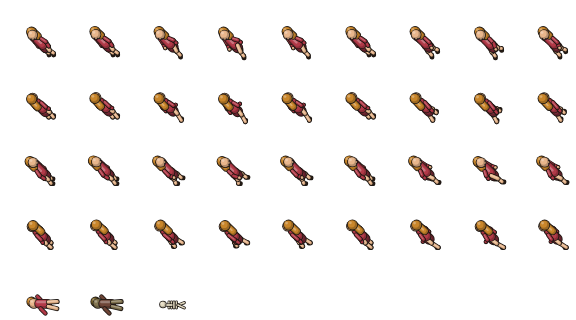
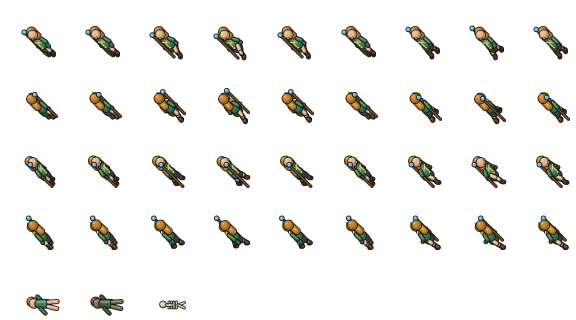
Sprites por código: mais detalhes no humano (ombreiras, braçadeiras, luvas, botas, cinto, frisos, cabelo espetado, espada, cajado) e traço mais limpo
Claude-Session: https://claude.ai/code/session_013J7ZHEiCUmkwR4oHDgpwZX

diff --git a/ferramentas/desenho/modelos.js b/ferramentas/desenho/modelos.js
@@ -8,6 +8,7 @@
 
 const CAMERA = 0.74;
 const CONTORNO = '#1c1612';
+const NITIDEZ = 4;
 const DIRECOES = { sul: [0, 1], norte: [0, -1], leste: [1, 0], oeste: [-1, 0] };
 
 // ================================================================================================================================================================================================================================================
@@ -68,7 +69,9 @@ function eixos(direcao) {
 
 // ================================================================================================================================================================================================================================================
 // humano
-// Partes do humano na direção e fase. visual: { pele, cabelo, camisa, calca, sapato, feminino }.
+// Partes do humano na direção e fase. visual: { pele, cabelo, camisa, calca, sapato, feminino } e os detalhes opcionais
+// cinto, detalhe (fivela, friso do peito, gola), luva, bracadeira, ombreira, bota (cano alto), espetado (cabelo em
+// pontas), espada (nas costas) e cajado (na mão direita).
 
 function humano(direcao, fase, visual) {
   const p = eixos(direcao);
@@ -76,14 +79,22 @@ function humano(direcao, fase, visual) {
   const s = fase ? Math.sin(t) : 0;
   const sobe = fase ? Math.abs(Math.cos(t)) * 0.9 : 0;
   const partes = [];
+  const meio = (a, b, f) => [0, 1, 2].map(i => a[i] + (b[i] - a[i]) * f);
   const perna = (lado, fase01) => {
     const ergue = Math.max(0, fase01) * 2.2;
     const quadril = p(0, lado * 2.3, 11.5 + sobe);
     const pe = p(fase01 * 4.6, lado * 2.3, 1.2 + ergue);
     const joelho = p(fase01 * 2.6 + 1.1, lado * 2.3, 6.4 + ergue * 0.6 + sobe);
     const cor = visual.feminino ? visual.pele : visual.calca;
-    partes.push({ a: quadril, b: joelho, largura: 3.6, cor }, { a: joelho, b: pe, largura: 3.1, cor });
-    partes.push({ a: pe, b: p(fase01 * 4.6 + 1.6, lado * 2.3, 0.9 + ergue), largura: 3.3, cor: visual.sapato, luz: false });
+    partes.push({ a: quadril, b: joelho, largura: 3.6, cor });
+    if (visual.bota) {
+      const cano = meio(joelho, pe, 0.3);
+      partes.push({ a: joelho, b: cano, largura: 3.1, cor }, { a: cano, b: pe, largura: 3.4, cor: visual.bota });
+      partes.push({ a: cano, largura: 3.9, cor: misturar(visual.bota, '#ffffff', 0.18), luz: false });
+    } else {
+      partes.push({ a: joelho, b: pe, largura: 3.1, cor });
+    }
+    partes.push({ a: pe, b: p(fase01 * 4.6 + 1.6, lado * 2.3, 0.9 + ergue), largura: 3.3, cor: visual.bota || visual.sapato, luz: false });
   };
   perna(-1, s);
   perna(1, -s);
@@ -91,19 +102,49 @@ function humano(direcao, fase, visual) {
     const ombro = p(0, lado * 4.6, 20.4 + sobe);
     const cotovelo = p(fase01 * 1.6 - 0.6, lado * 5.4, 15.6 + sobe);
     const mao = p(fase01 * 4 + 0.8, lado * 5.2, 11.4 + sobe + Math.max(0, fase01) * 1.2);
-    partes.push({ a: ombro, b: cotovelo, largura: 3.1, cor: visual.camisa }, { a: cotovelo, b: mao, largura: 2.7, cor: visual.camisa });
-    partes.push({ a: mao, largura: 2.7, cor: visual.pele, luz: false });
+    partes.push({ a: ombro, b: cotovelo, largura: 3.1, cor: visual.camisa });
+    partes.push({ a: cotovelo, b: mao, largura: visual.bracadeira ? 3.1 : 2.7, cor: visual.bracadeira || visual.camisa });
+    partes.push({ a: mao, largura: visual.luva ? 3.1 : 2.7, cor: visual.luva || visual.pele, luz: false });
+    if (visual.ombreira) {
+      partes.push({ a: p(0, lado * 5, 21.2 + sobe), largura: 5.4, cor: visual.ombreira, frente: 1 });
+      partes.push({ a: p(0, lado * 6.4, 20.2 + sobe), largura: 3.2, cor: misturar(visual.ombreira, '#000000', 0.15), frente: 1 });
+    }
+    if (visual.cajado && lado > 0) {
+      partes.push({ a: [mao[0], mao[1], 1], b: [mao[0], mao[1], 29], largura: 1.6, cor: '#7a5230', luz: false });
+      partes.push({ a: [mao[0], mao[1], 30.4], largura: 4, cor: visual.cajado });
+    }
   };
   braco(-1, -s);
   braco(1, s);
   partes.push({ a: p(0, 0, 12.5 + sobe), b: p(0, 0, 20 + sobe), largura: 8.4, cor: visual.camisa });
   if (visual.feminino) partes.push({ a: p(0, 0, 8.6 + sobe), b: p(0, 0, 12.4 + sobe), largura: 9.4, cor: visual.calca });
   else partes.push({ a: p(0, -2.2, 11.6 + sobe), b: p(0, 2.2, 11.6 + sobe), largura: 4.4, cor: visual.calca });
+  if (visual.cinto) {
+    partes.push({ a: p(0, -3.3, 12.8 + sobe), b: p(0, 3.3, 12.8 + sobe), largura: 3.2, cor: visual.cinto, luz: false, frente: 1 });
+    if (visual.detalhe) partes.push({ a: p(3.6, 0, 12.8 + sobe), largura: 2, cor: visual.detalhe, contorno: false, frente: 3 });
+  }
+  if (visual.detalhe) {
+    partes.push({ a: p(3.9, 0, 15 + sobe), b: p(3.9, 0, 19 + sobe), largura: 1.3, cor: visual.detalhe, contorno: false, luz: false, frente: 3 });
+    partes.push({ a: p(3.4, -2.4, 19.6 + sobe), b: p(3.4, 2.4, 19.6 + sobe), largura: 1.3, cor: visual.detalhe, contorno: false, luz: false, frente: 3 });
+  }
+  if (visual.espada) {
+    partes.push({ a: p(-4.4, 4.4, 10 + sobe), b: p(-4.4, -3.6, 25 + sobe), largura: 2, cor: '#c9ced8', frente: -2 });
+    partes.push({ a: p(-4.4, -2.2, 24.4 + sobe), b: p(-4.4, -5.2, 26 + sobe), largura: 1.8, cor: visual.detalhe || '#b08a3a', luz: false, frente: -2 });
+    partes.push({ a: p(-4.4, -3.8, 25.4 + sobe), b: p(-4.4, -5.6, 29 + sobe), largura: 1.8, cor: '#4a2f1c', luz: false, frente: -2 });
+  }
   const cabeca = p(0.5, 0, 26.2 + sobe);
   partes.push({ a: cabeca, largura: 9.2, cor: visual.pele });
   partes.push({ a: p(-1.5, 0, 27.6 + sobe), largura: 9.4, cor: visual.cabelo });
+  if (visual.espetado) {
+    for (const [f, l, z] of [[-1, 0, 33.4], [1.6, -2.2, 32.4], [1.6, 2.2, 32.4], [-3.4, -2.6, 31.4], [-3.4, 2.6, 31.4], [-4.8, 0, 29.6]]) {
+      partes.push({ a: p(-1.2, l * 0.5, 29.4 + sobe), b: p(f, l, z + sobe), largura: 2.6, cor: visual.cabelo });
+    }
+  }
   if (visual.feminino) partes.push({ a: p(-3.2, 0, 26 + sobe), b: p(-3.6, 0, 19.5 + sobe), largura: 6.4, cor: visual.cabelo });
-  for (const lado of [-1, 1]) partes.push({ a: p(4.4, lado * 1.7, 26 + sobe), largura: 1.3, cor: '#1c1a22', contorno: false, luz: false, frente: 2 });
+  for (const lado of [-1, 1]) {
+    partes.push({ a: p(4.4, lado * 1.7, 26 + sobe), largura: 1.5, cor: '#1c1a22', contorno: false, luz: false, frente: 2 });
+    partes.push({ a: p(4.3, lado * 0.9, 27.5 + sobe), b: p(4.3, lado * 2.6, 27.7 + sobe), largura: 0.8, cor: misturar(visual.cabelo, '#000000', 0.3), contorno: false, luz: false, frente: 2 });
+  }
   return partes;
 }
 
@@ -177,17 +218,25 @@ function caido(forma, estagio, visual) {
 // ================================================================================================================================================================================================================================================
 // folhaDeCriatura
 // A folha do jogo: 9 quadros de 64 px por direção (sul, norte, leste, oeste) e a linha do cadáver (fresco,
-// apodrecendo, ossos). modelo: humano ou lobo.
+// apodrecendo, ossos). modelo: humano ou lobo. Desenha NITIDEZ vezes maior e reduz (traço mais limpo); ampliar > 1
+// devolve a folha maior que a do jogo (prévia de como fica com zoom).
 
-function folhaDeCriatura(modelo, visual) {
-  const canvas = document.createElement('canvas');
-  canvas.width = 64 * 9;
-  canvas.height = 64 * 5;
-  const ctx = canvas.getContext('2d');
+function folhaDeCriatura(modelo, visual, ampliar = 1) {
+  const grande = document.createElement('canvas');
+  grande.width = 64 * 9 * NITIDEZ;
+  grande.height = 64 * 5 * NITIDEZ;
+  const ctx = grande.getContext('2d');
+  ctx.scale(NITIDEZ, NITIDEZ);
   Object.keys(DIRECOES).forEach((direcao, linha) => {
     for (let fase = 0; fase < 9; fase++) pintar(ctx, [fase * 64 + 52, linha * 64 + 54], modelo(direcao, fase, visual));
   });
   for (let estagio = 0; estagio < 3; estagio++) pintar(ctx, [estagio * 64 + 46, 4 * 64 + 50], caido(modelo === lobo ? 'lobo' : 'humano', estagio, visual));
+  const canvas = document.createElement('canvas');
+  canvas.width = 64 * 9 * ampliar;
+  canvas.height = 64 * 5 * ampliar;
+  const saida = canvas.getContext('2d');
+  saida.imageSmoothingQuality = 'high';
+  saida.drawImage(grande, 0, 0, canvas.width, canvas.height);
   return canvas;
 }
 

diff --git a/ferramentas/desenhar-sprites.js b/ferramentas/desenhar-sprites.js
@@ -7,6 +7,7 @@
 // na 1ª vez; depois ficam como estiverem (o que o usuário mudar no gerador não é desfeito).
 //
 // Uso: node ferramentas/desenhar-sprites.js [pasta de prévia]
+// (na pasta de prévia vão também as folhas das criaturas 4× maiores, pra ver os detalhes)
 
 const fs = require('fs');
 const path = require('path');
@@ -17,8 +18,8 @@ const MODELOS = path.join(__dirname, 'desenho', 'modelos.js');
 const LINHAS = ['sul', 'norte', 'leste', 'oeste', 'cadáver: fresco, apodrecendo, ossos'];
 
 const SPRITES = [
-  { tipo: 'personagens/players/aventureiro', ferramenta: 'criaturas', copiaDe: 'personagens/players/player-masculino', modelo: 'humano', visual: { pele: '#e2aa7c', cabelo: '#6b3b1d', camisa: '#3d5fb0', calca: '#6d4c2b', sapato: '#33241a' } },
-  { tipo: 'personagens/players/aventureira', ferramenta: 'criaturas', copiaDe: 'personagens/players/player-feminino', modelo: 'humano', visual: { pele: '#e8b68c', cabelo: '#c9862b', camisa: '#b23a48', calca: '#7a2a36', sapato: '#33241a', feminino: true } },
+  { tipo: 'personagens/players/aventureiro', ferramenta: 'criaturas', copiaDe: 'personagens/players/player-masculino', modelo: 'humano', visual: { pele: '#e2aa7c', cabelo: '#5a3418', camisa: '#5f7896', calca: '#3f4a5c', sapato: '#2c2620', bota: '#4a3626', cinto: '#3a2616', detalhe: '#e2b34a', luva: '#4a3626', bracadeira: '#8fa3ba', ombreira: '#9fb2c8', espetado: true, espada: true } },
+  { tipo: 'personagens/players/aventureira', ferramenta: 'criaturas', copiaDe: 'personagens/players/player-feminino', modelo: 'humano', visual: { pele: '#e8b68c', cabelo: '#c9862b', camisa: '#3f7a52', calca: '#2f5c40', sapato: '#33241a', bota: '#5a3a22', cinto: '#4a2f1c', detalhe: '#e8d27a', luva: '#5a3a22', feminino: true, cajado: '#6fd0f0' } },
   { tipo: 'criaturas/mamiferos/lobo-cinzento', ferramenta: 'criaturas', copiaDe: 'criaturas/mamiferos/wolf', modelo: 'lobo', visual: { pelo: '#8a8782', barriga: '#b9b5ad', olho: '#f2d23c' } },
   { tipo: 'decoracao/adornos/caixote', ferramenta: 'objetos', copiaDe: 'decoracao/moveis/harp', modelo: 'caixote', quadro: 32 },
   { tipo: 'decoracao/adornos/barril', ferramenta: 'objetos', copiaDe: 'decoracao/moveis/harp', modelo: 'barril', quadro: 32 },
@@ -58,10 +59,12 @@ async function principal() {
   const pagina = await navegador.newPage();
   await pagina.addScriptTag({ content: fs.readFileSync(MODELOS, 'utf8') });
   for (const sprite of SPRITES) {
-    const dados = await pagina.evaluate(({ modelo, visual, argumento }) => {
-      const canvas = visual ? folhaDeCriatura(window[modelo] || eval(modelo), visual) : eval(modelo)(argumento);
+    const desenhar = ({ modelo, visual, argumento, ampliar }) => {
+      const canvas = visual ? folhaDeCriatura(eval(modelo), visual, ampliar) : eval(modelo)(argumento);
       return canvas.toDataURL('image/png').split(',')[1];
-    }, sprite);
+    };
+    const dados = await pagina.evaluate(desenhar, { ...sprite, ampliar: 1 });
+    if (previa && sprite.visual) fs.writeFileSync(path.join(previa, `${sprite.tipo.split('/').pop()}-4x.png`), Buffer.from(await pagina.evaluate(desenhar, { ...sprite, ampliar: 4 }), 'base64'));
     const png = Buffer.from(dados, 'base64');
     const saida = path.join(RAIZ, 'gerador', 'saida', `${sprite.tipo}.png`);
     const receita = path.join(RAIZ, 'gerador', 'projetos', `${sprite.tipo}.json`);
